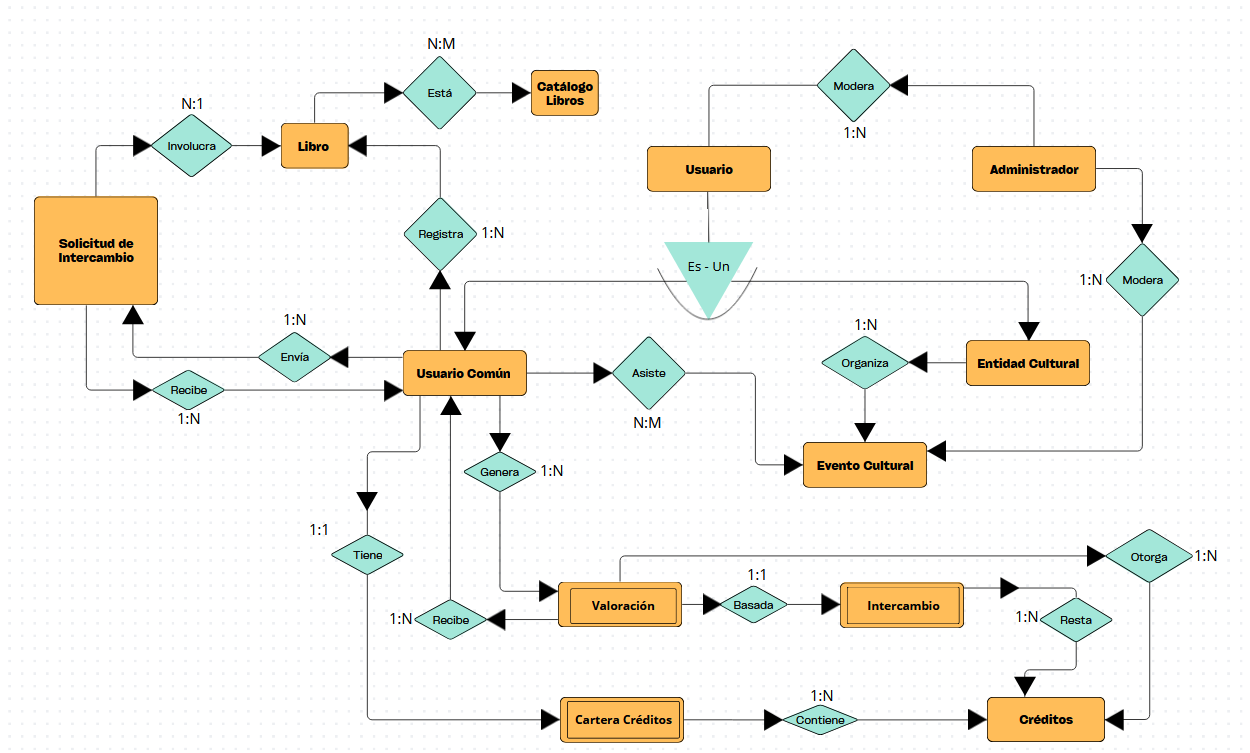
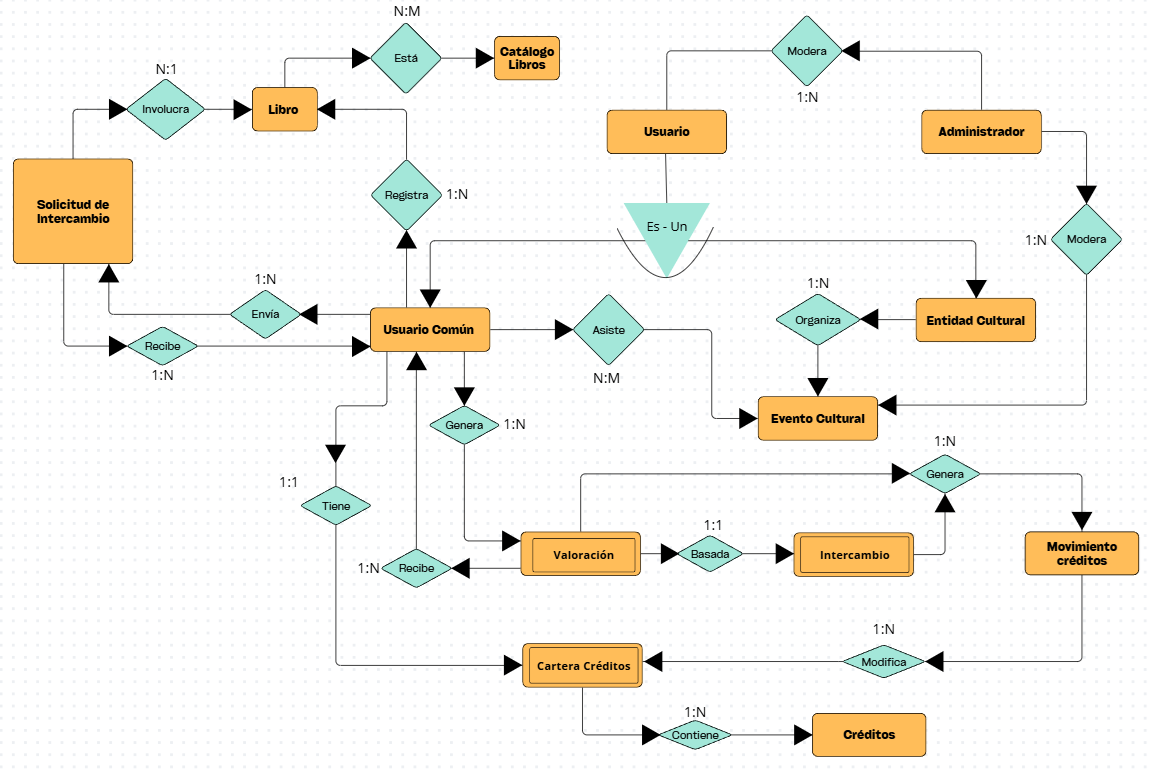
Añadiendo carpeta img y diagrama_er.md

diff --git a/doc/analisis/diagrama_ER.md b/doc/analisis/diagrama_ER.md
@@ -1,0 +1,98 @@
+# DiAGRAMA DE ENTIDAD - RELACION
+
+En el siguiente apartado se presenta el modelo de entidad-relación de la plataforma BookSwap, donde se representan las entidades como rectángulos y las relaciones como rombos. 
+
+![Diagrama E-R](img/diagrama_ER.png)
+
+De dicho diagrama se han creado diversas tablas, las cuales son:
+
+
+### A) Tabla de Administrador:
+
+
+| Atributo              | Tipo    | Tamaño | Clave | Descripción                                                  |
+|-----------------------|---------|--------|-------|--------------------------------------------------------------|
+| id_admin              | INT     | -      | PK    | Identificador único de Administrador                         |
+| nombre_admin          | VARCHAR | 100    | -     | Nombre del administrador                                     |
+| apellidos_admin       | VARCHAR | 100    | -     | Apellidos del administrador                                  |
+| email_admin           | VARCHAR | 100    | -     | Correo electrónico de acceso                                 |
+| pass_admin            | VARCHAR | 255    | -     | Contraseña cifrada                                           |
+| telefono_admin        | VARCHAR | 11     | -     | Número telefónico del administrador                          |
+| ciudad_admin          | VARCHAR | 100    | -     | Ciudad de residencia o gestión                               |
+
+
+### B) Tabla de Usuario_comun:
+
+| Atributo                  | Tipo     | Tamaño | Clave | Descripción                                                                 |
+|---------------------------|----------|--------|-------|-----------------------------------------------------------------------------|
+| id_user_comun             | INT      | -      | PK    | Identificador único de usuario común                                        |
+| nombre_user_comun         | VARCHAR  | 100    | -     | Nombre del usuario común                                                    |
+| apellidos_user_comun      | VARCHAR  | 100    | -     | Apellidos del usuario común                                                 |
+| email_user_comun          | VARCHAR  | 100    | -     | Correo electrónico de acceso                                                |
+| pass_user_comun           | VARCHAR  | 255    | -     | Contraseña cifrada                                                          |
+| telefono_user_comun       | VARCHAR  | 11     | -     | Número telefónico del usuario común                                         |
+| ciudad_user_comun         | VARCHAR  | 100    | -     | Ciudad de residencia o gestión                                              |
+| id_admin                  | INT      | -      | FK    | Identificador único del administrador que modera al usuario                 |
+
+
+### C) Tabla de Entidad_cultural:
+
+| Atributo                        | Tipo    | Tamaño | Clave | Descripción                                                                 |
+|---------------------------------|---------|--------|-------|-----------------------------------------------------------------------------|
+| id_entidad_cultural             | INT     | -      | PK    | Identificador único de entidad cultural                                     |
+| nombre_entidad_cultural         | VARCHAR | 100    | -     | Nombre de la entidad cultural                                               |
+| email_entidad_cultural          | VARCHAR | 100    | -     | Correo electrónico de acceso                                                |
+| pass_entidad_cultural           | VARCHAR | 255    | -     | Contraseña cifrada                                                          |
+| telefono_entidad_cultural       | VARCHAR | 11     | -     | Número telefónico de la entidad cultural                                    |
+| ciudad_entidad_cultural         | VARCHAR | 100    | -     | Ciudad de residencia o gestión                                              |
+| id_admin                        | INT     | -      | FK    | Identificador único del administrador que modera a la entidad cultural      |
+
+
+### D) Tabla de Libro:
+
+| Atributo                 | Tipo     | Tamaño | Clave | Descripción                                                        |
+|--------------------------|----------|--------|-------|--------------------------------------------------------------------|
+| id_libro                 | INT      | -      | PK    | Identificador único del libro                                      |
+| titulo_libro             | VARCHAR  | 100    | -     | Título del libro                                                   |
+| autor_libro              | VARCHAR  | 100    | -     | Autor del libro                                                    |
+| ISBN                     | VARCHAR  | 255    | -     | ISBN del libro                                                     |
+| estado_libro             | VARCHAR  | 100    | -     | Estado en el que se encuentra el libro                             |
+| genero_libro             | VARCHAR  | 100    | -     | Género literario para clasificar al libro                          |
+| fecha_publicacion_libro  | DATE     | -      | -     | Fecha en la que se publicó el libro                                |
+| id_user_comun            | INT      | -      | FK    | Identificador único del usuario común que lo registró              |
+
+
+### E) Tabla de Evento_cultural:
+
+| Atributo            | Tipo     | Tamaño | Clave | Descripción                                                                         |
+|---------------------|----------|--------|-------|-------------------------------------------------------------------------------------|
+| id_evento           | INT      | -      | PK    | Identificador único del evento                                                      |
+| nombre_evento       | VARCHAR  | 150    | -     | Nombre del evento                                                                   |
+| fecha_evento        | DATE     | -      | -     | Fecha de realización del evento                                                     |
+| descripcion_evento  | TEXT     | -      | -     | Descripción del evento                                                              |
+| ubicacion_evento    | VARCHAR  | 150    | -     | Lugar donde se va a realizar el evento                                              |
+| tipo_evento         | ENUM     | -      | -     | Tipo de evento  ('encuentro con el autor', 'club de lectura', 'feria del libro')    |
+| estado_evento       | VARCHAR  | 50     | -     | Estado actual del evento (pendiente, aceptado, rechazado)                           |
+| id_entidad_cultural | INT      | -      | FK    | Identificador único de la entidad que lo organiza                                   |
+| id_administrador    | INT      | -      | FK    | Identificador único del administrador que lo modera                                 |
+
+
+### F) Tabla de Cartera_creditos:
+
+| Atributo       | Tipo     | Tamaño | Clave | Descripción                                                        |
+|----------------|----------|--------|-------|--------------------------------------------------------------------|
+| id_cartera     | INT      | -      | PK    | Identificador único de la cartera                                  |
+| saldo_total    | DECIMAL  | 10.2   | -     | Saldo total disponible                                             |
+| id_user_comun  | INT      | -      | FK    | Identificador único del usuario común dueño de la cartera          |
+
+
+### G) Tabla de Movimiento_creditos:
+
+| Atributo          | Tipo     | Tamaño | Clave | Descripción                                                  |
+|-------------------|----------|--------|-------|--------------------------------------------------------------|
+| id_movimiento     | INT      | -      | PK    | Identificador único del movimiento de crédito                |
+| cantidad          | DECIMAL  | 10.2   | -     | Cantidad de créditos                                         |
+| tipo_movimiento   | ENUM     | -      | -     | Tipo de movimiento (ganado, gastado, otorgado)               |
+| fecha_movimiento  | DATE     | -      | -     | Fecha del ingreso o retirada de los créditos                 |
+| id_cartera        | INT      | -      | FK    | Identificador único de la cartera asociada                   |
+
